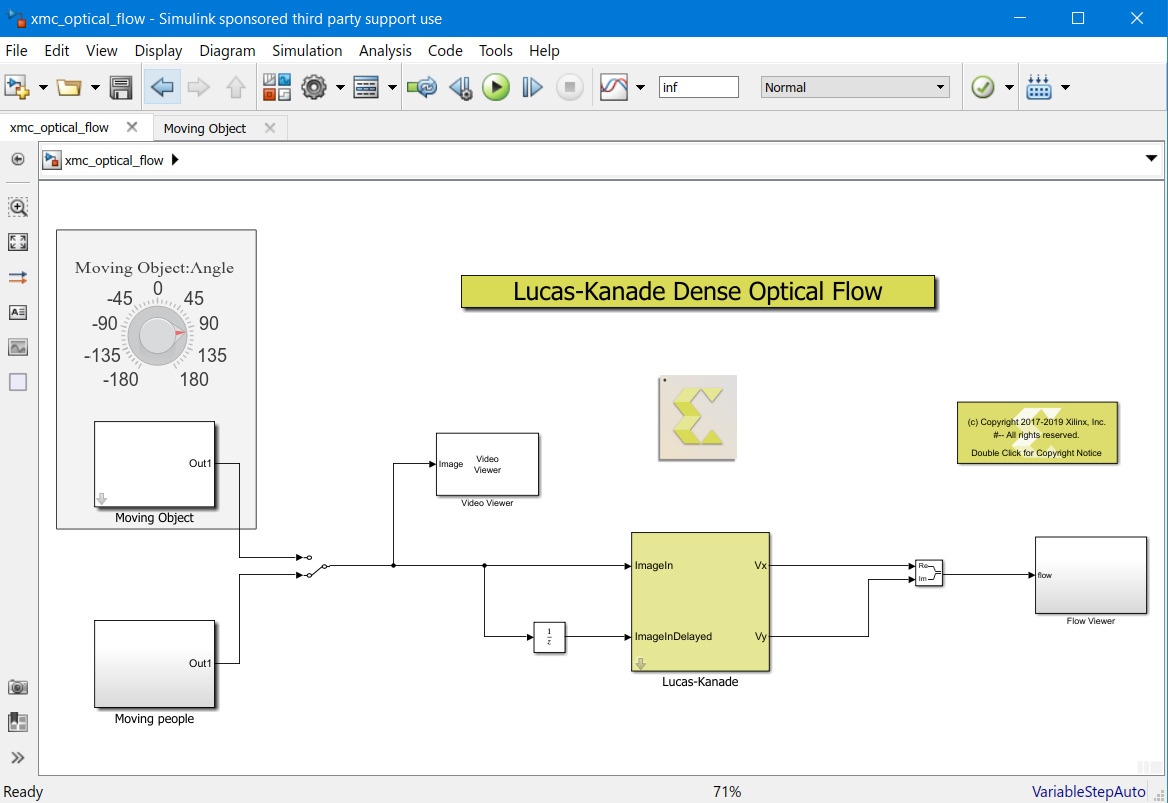
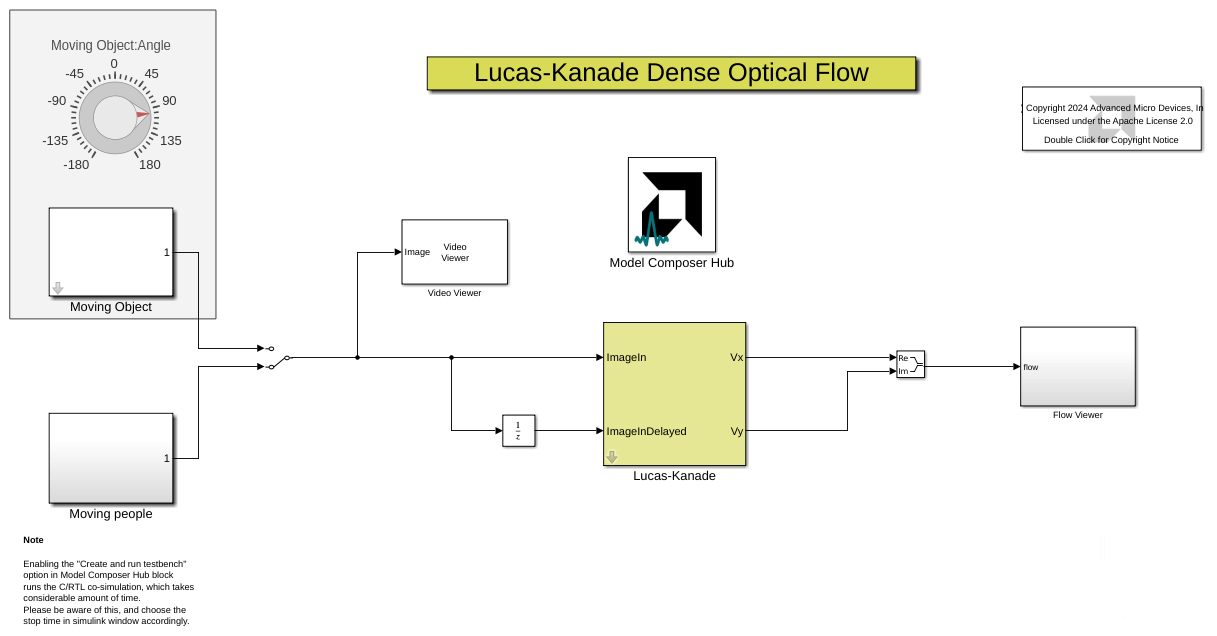
Update HLS Lab 3 to 2024.1

diff --git a/Tutorials/HLS_Library/Lab3_HLS/README.html b/Tutorials/HLS_Library/Lab3_HLS/README.html
@@ -5,7 +5,7 @@
 <meta name="viewport" content="width=device-width, initial-scale=1">
 </head>
 <body>
-<h1 id="lab-3-debugging-imported-cc-code-using-gdb-debugger">Lab 3: Debugging Imported C/C++-Code Using GDB Debugger</h1>
+<h1 id="lab-3-debugging-imported-cc-code-using-gdb-debugger">Lab 3: Debugging Imported C/C++ Code Using GDB Debugger</h1>
 <html>    
 <script>
 function myFunction() {
@@ -24,12 +24,10 @@ document.location=commandURI
 <button type="button" style="background-color:#d0d028; font-size: 20px;" onclick="myFunction()">Open Lab Directory</button>  
               
 </html>
-<p>Model Composer provides the ability to debug <code>C/C++</code> code that has been <br />
-imported as a block using the <code>xmcImportFunction</code> command, <br />
-while simulating the entire design in Simulink® .</p>
+<p>Model Composer provides the ability to debug <code>C/C++</code> code that has been imported as a block using the <code>xmcImportFunction</code> command, while simulating the entire design in Simulink®.</p>
 <p>The debug flow in Vitis Model Composer is as follows:</p>
 <ol>
-<li>Specify the debug tool using the xmcImportFunctionSettings command.</li>
+<li>Specify the debug tool using the <code>xmcImportFunctionSettings</code> command.</li>
 <li>Launch the debugging tool.</li>
 <li>Add a breakpoint in the imported function.</li>
 <li>Attach to the MATLAB® process.</li>
@@ -46,28 +44,29 @@ while simulating the entire design in Simulink® .</p>
 <ol>
 <li>Type the following at the MATLAB command prompt:</li>
 </ol>
-<pre><code>xmcOpenExamples();
+<pre><code>xmcOpenExamples;
 </code></pre>
-<ol start="2">
-<li><p>Press <strong>Enter</strong>. A window opens to specify the folder location to download the examples from GitHub.<br />
-<br><br><img src="Images/Step1/Step2.png"></p></li>
-<li><p>Click <strong>Open</strong> after choosing the location. Once the download completes, the HTML page opens.</p></li>
-<li><p>Click <strong>HLS Examples</strong> under heading Table of Contents. This redirects you to the list of HLS Examples as shown. </p></li>
-<li><p>Click the <strong>Optical Flow</strong>. A description of the example displays.<br />
-<br><br><img src="Images/Step1/Step5.png"></p></li>
-<li><p>Click Click <strong>Open Design</strong> at the top left corner. This opens the example design.<br />
-<br><br><img src="Images/Step1/Step7.png"></p></li>
-<li><p>Right-click on the <strong>Lucas-Kanade</strong> subsystem and select <strong>Mask > Look Under Mask</strong> to observe the calculating-roots block.<br />
-<br><br><img src="Images/Step1/Step9-1.png"></p></li>
+<ol start="4">
+<li><p>Under <strong>Examples</strong>, click <strong>HLS</strong> under heading Table of Contents. </p></li>
+<li><p>Click the <strong>Optical Flow</strong>. A description of the example displays.</p></li>
 </ol>
+<p><img src="Images/Step1/Step5.png" alt="" /></p>
+<ol start="6">
+<li>Click Click <strong>Open Design</strong> at the top left corner. This opens the example design.</li>
+</ol>
+<p><img src="Images/Step1/Step7.png" alt="" /></p>
+<ol start="7">
+<li>Right-click on the <strong>Lucas-Kanade</strong> subsystem and select <strong>Mask > Look Under Mask</strong> to observe the calculating-roots block.</li>
+</ol>
+<p><img src="Images/Step1/Step9-1.png" alt="" /></p>
 <blockquote>
 <p> <strong>Note:</strong> This block has been generated using the <code>xmcImportFunction</code> feature. Its function declaration can be seen by double-clicking on the block.</p>
 </blockquote>
-<ul><br><br><img src="Images/Step1/Step9-2.png"></ul>
+<p><img src="Images/Step1/Step9-2.png" alt="" /></p>
 <ol start="8">
-<li>To view the function definition of <code>calculating_roots</code>, navigate to the current folder in the MATLAB window and double-click on <samp> calculating_roots.h </samp>.<br />
-<br><br><img src="Images/Step1/Step10.png"></li>
+<li>To view the function definition of <code>calculating_roots</code>, navigate to the current folder in the MATLAB window and double-click on <code>calculating_roots.h</code>.</li>
 </ol>
+<p><img src="Images/Step1/Step10.png" alt="" /></p>
 <p>The setup is now ready for you to debug your <code>C/C++</code> code. In the next step, you will see how to debug the code using GDB tool debugger.</p>
 <h2 id="step-2-debugging-cc-code-using-gdb-debugger">Step 2: Debugging C/C++ Code Using GDB Debugger</h2>
 <ol>
@@ -79,41 +78,51 @@ while simulating the entire design in Simulink® .</p>
 <p>⭐ <strong>Tip</strong>: You can restore the release build environment, using the <code>release</code> value of the <code>build</code> option: <code>xmcImportFunctionSettings('build','release')</code>.</p>
 </blockquote>
 <ol start="2">
-<li><p>Press Enter to see the applied settings in command window, as shown in the following figure.<br />
-<br><br><img src="Images/Step2/Step2.png"><br />
-<br><br> Note the gdb link that you will use to invoke the debugger tool, and the MATLAB process ID that you will use to attach the process to the debugger.</p></li>
-<li><p>Click on the <strong>gdb</strong> link, to invoke the terminal and launch gdb.<br />
-<br><br><img src="Images/Step2/Step3.png"></p></li>
-<li><p>At the terminal, use the following command to specify the breakpoint in the <samp> calculating_roots.h </samp> file where you want the code to stop executing. Press <strong>Enter</strong> to run the command.</p></li>
+<li>Press Enter to see the applied settings in command window, as shown in the following figure.</li>
+</ol>
+<p><img src="Images/Step2/Step2.png" alt="" /></p>
+<p>Note the gdb link that you will use to invoke the debugger tool, and the MATLAB process ID that you will use to attach the process to the debugger.</p>
+<ol start="3">
+<li>Click on the <strong>gdb</strong> link, to invoke the terminal and launch gdb.</li>
+</ol>
+<p><img src="Images/Step2/Step3.png" alt="" /></p>
+<ol start="4">
+<li>At the terminal, use the following command to specify the breakpoint in the <code>calculating_roots.h</code> file where you want the code to stop executing. Press <strong>Enter</strong> to run the command.</li>
 </ol>
 <pre><code>(gdb) break calculating_roots.h:53 
 </code></pre>
 <blockquote>
 <p> <strong>Note</strong>: The “53” in the above command, tells the GDB debugger to stop the simulation at line 53 of your program.</p>
 </blockquote>
-<ul><br><br><img src="Images/Step2/Step4.png"></ul>
+<p><img src="Images/Step2/Step4.png" alt="" /></p>
 <ol start="5">
-<li><p>Once the command runs, you can see a pending breakpoint in the terminal. This is shown in the following figure.<br />
-<br><br><img src="Images/Step2/Step5.png"><br />
-<br><br>If you see any questions from GDB, answer “yes” and press Enter.</p></li>
-<li><p>To attach the MATLAB process to the GDB debugger, type the following:</p></li>
+<li>Once the command runs, you can see a pending breakpoint in the terminal. This is shown in the following figure.</li>
+</ol>
+<p><img src="Images/Step2/Step5.png" alt="" /></p>
+<p>If you see any questions from GDB, answer “yes” and press Enter.</p>
+<ol start="6">
+<li>To attach the MATLAB process to the GDB debugger, type the following:</li>
 </ol>
 <pre><code>(gdb) attach &lt;process_ID&gt; 
 </code></pre>
-<ul> Enter the <process ID you saw in step 2. For example “15972”. As soon as the MATLAB process is attached, the MATLAB application gets frozen and becomes unresponsive. 
-<br><br><img src="Images/Step2/Step6.png"> </ul>
+<p>Enter the &lt;process ID you saw in step 2. For example “15972”. As soon as the MATLAB process is attached, the MATLAB application gets frozen and becomes unresponsive. </p>
+<p><img src="Images/Step2/Step6.png" alt="" /></p>
 <blockquote>
 <p> <strong>Note</strong> : During the debug process, if prompted to press 'c' to continue, type 'c' and hit Enter.</p>
 </blockquote>
 <ol start="7">
-<li><p>Type <code>cont</code> in the terminal.<br />
-<br><br><img src="Images/Step2/Step7.png"></p></li>
-<li><p>Now go to the Simulink® model and run the simulation by clicking the <strong>Run</strong> button.<br />
-<br><br><img src="Images/Step2/Step8.png"></p></li>
-<li><p>The model takes some time to initialize. As the simulation starts, you see the simulation come to the breakpoint at line 53 in the terminal window.<br />
-<br><br><img src="Images/Step2/Step9.png"><br />
-<br><br>Now, type the command list to view the lines of code around line 53.</p></li>
+<li>Type <code>cont</code> in the terminal.</li>
 </ol>
+<p><img src="Images/Step2/Step7.png" alt="" /></p>
+<ol start="8">
+<li>Now go to the Simulink® model and run the simulation by clicking the <strong>Run</strong> button.</li>
+</ol>
+<p><img src="Images/Step2/Step8.png" alt="" /></p>
+<ol start="9">
+<li>The model takes some time to initialize. As the simulation starts, you see the simulation come to the breakpoint at line 53 in the terminal window.</li>
+</ol>
+<p><img src="Images/Step2/Step9.png" alt="" /></p>
+<p>Now, type the command list to view the lines of code around line 53.</p>
 <pre><code>(gdb) list
 </code></pre>
 <ol start="10">
@@ -143,11 +152,11 @@ $1 = 421
 <h3 id="conclusion">Conclusion</h3>
 <p>In this lab, you learned:</p>
 <ul>
-<li>How to use a third party debugger (GDB debugger) and control the debug mode using xmcImportFunctionSettings.</li>
+<li>How to use a third party debugger (GDB debugger) and control the debug mode using <code>xmcImportFunctionSettings</code>.</li>
 <li>How to debug source code associated with your custom blocks using the GDB debugger, while leveraging the stimulus vectors from Simulink.</li>
 </ul>
 <hr />
-<p>Copyright 2022 Xilinx</p>
+<p>Copyright 2024 Advanced Micro Devices, Inc.</p>
 <p>Licensed under the Apache License, Version 2.0 (the "License");<br />
 you may not use this file except in compliance with the License.<br />
 You may obtain a copy of the License at</p>

diff --git a/Tutorials/HLS_Library/Lab3_HLS/README.md b/Tutorials/HLS_Library/Lab3_HLS/README.md
@@ -1,11 +1,10 @@
-# Lab 3: Debugging Imported C/C++-Code Using GDB Debugger
+# Lab 3: Debugging Imported C/C++ Code Using GDB Debugger
 
-Model Composer provides the ability to debug `C/C++` code that has been 
-imported as a block using the `xmcImportFunction` command, 
-while simulating the entire design in Simulink® .
+Model Composer provides the ability to debug `C/C++` code that has been imported as a block using the `xmcImportFunction` command, while simulating the entire design in Simulink®.
 
 The debug flow in Vitis Model Composer is as follows:
-1. Specify the debug tool using the xmcImportFunctionSettings command.
+
+1. Specify the debug tool using the `xmcImportFunctionSettings` command.
 2. Launch the debugging tool.
 3. Add a breakpoint in the imported function.
 4. Attach to the MATLAB® process.
@@ -22,85 +21,102 @@ For more details and information about how to create custom blocks, refer to the
 
 1. Type the following at the MATLAB command prompt:
 ``` 
-xmcOpenExamples();
+xmcOpenExamples;
 ```
 
-2. Press **Enter**. A window opens to specify the folder location to download the examples from GitHub.
-<br><br><img src="Images/Step1/Step2.png">
-
-3. Click **Open** after choosing the location. Once the download completes, the HTML page opens.
-
-4. Click **HLS Examples** under heading Table of Contents. This redirects you to the list of HLS Examples as shown. 
+4. Under **Examples**, click **HLS** under heading Table of Contents. 
 
 5. Click the **Optical Flow**. A description of the example displays.
-<br><br><img src="Images/Step1/Step5.png">
+
+![](Images/Step1/Step5.png)
 
 6. Click Click **Open Design** at the top left corner. This opens the example design.
-<br><br><img src="Images/Step1/Step7.png">
+
+![](Images/Step1/Step7.png)
 
 7. Right-click on the **Lucas-Kanade** subsystem and select **Mask > Look Under Mask** to observe the calculating-roots block.
-<br><br><img src="Images/Step1/Step9-1.png">
+
+![](Images/Step1/Step9-1.png)
 
 > 📝 **Note:** This block has been generated using the `xmcImportFunction` feature. Its function declaration can be seen by double-clicking on the block.
 
-<ul><br><br><img src="Images/Step1/Step9-2.png"></ul>
+![](Images/Step1/Step9-2.png)
 
-8. To view the function definition of `calculating_roots`, navigate to the current folder in the MATLAB window and double-click on <samp> calculating_roots.h </samp>.
-<br><br><img src="Images/Step1/Step10.png">
+8. To view the function definition of `calculating_roots`, navigate to the current folder in the MATLAB window and double-click on ` calculating_roots.h `.
+
+![](Images/Step1/Step10.png)
 
 The setup is now ready for you to debug your `C/C++` code. In the next step, you will see how to debug the code using GDB tool debugger.
 
 ## Step 2: Debugging C/C++ Code Using GDB Debugger
  
 1. Specify the debug tool using the `xmcImportFunctionSettings` command. At the MATLAB® command prompt, type the following command:
+
 ```
 >> xmcImportFunctionSettings('build', 'debug');
 ```
+
 > ⭐ **Tip**: You can restore the release build environment, using the `release` value of the `build` option: `xmcImportFunctionSettings('build','release')`.
 
 2. Press Enter to see the applied settings in command window, as shown in the following figure.
-<br><br><img src="Images/Step2/Step2.png">
-<br><br> Note the gdb link that you will use to invoke the debugger tool, and the MATLAB process ID that you will use to attach the process to the debugger.
+
+![](Images/Step2/Step2.png)
+
+Note the gdb link that you will use to invoke the debugger tool, and the MATLAB process ID that you will use to attach the process to the debugger.
 
 3. Click on the **gdb** link, to invoke the terminal and launch gdb.
-<br><br><img src="Images/Step2/Step3.png">
 
- 4. At the terminal, use the following command to specify the breakpoint in the <samp> calculating_roots.h </samp> file where you want the code to stop executing. Press **Enter** to run the command.
+![](Images/Step2/Step3.png)
+
+ 4. At the terminal, use the following command to specify the breakpoint in the ` calculating_roots.h ` file where you want the code to stop executing. Press **Enter** to run the command.
+
 ```
 (gdb) break calculating_roots.h:53 
 
 ```
+
 > 📝 **Note**: The “53” in the above command, tells the GDB debugger to stop the simulation at line 53 of your program.
 
-<ul><br><br><img src="Images/Step2/Step4.png"></ul>
+![](Images/Step2/Step4.png)
 
 5. Once the command runs, you can see a pending breakpoint in the terminal. This is shown in the following figure.
-<br><br><img src="Images/Step2/Step5.png">
-<br><br>If you see any questions from GDB, answer “yes” and press Enter.
+
+![](Images/Step2/Step5.png)
+
+If you see any questions from GDB, answer “yes” and press Enter.
 
 6. To attach the MATLAB process to the GDB debugger, type the following:
+
 ```
 (gdb) attach <process_ID> 
 ```
-<ul> Enter the <process ID you saw in step 2. For example “15972”. As soon as the MATLAB process is attached, the MATLAB application gets frozen and becomes unresponsive. 
-<br><br><img src="Images/Step2/Step6.png"> </ul>
+
+Enter the <process ID you saw in step 2. For example “15972”. As soon as the MATLAB process is attached, the MATLAB application gets frozen and becomes unresponsive. 
+
+![](Images/Step2/Step6.png)
  
 > 📝 **Note** : During the debug process, if prompted to press 'c' to continue, type 'c' and hit Enter.
 
 7. Type `cont` in the terminal.
-<br><br><img src="Images/Step2/Step7.png">
+
+![](Images/Step2/Step7.png)
 
 8. Now go to the Simulink® model and run the simulation by clicking the **Run** button.
-<br><br><img src="Images/Step2/Step8.png">
+
+![](Images/Step2/Step8.png)
 
 9. The model takes some time to initialize. As the simulation starts, you see the simulation come to the breakpoint at line 53 in the terminal window.
-<br><br><img src="Images/Step2/Step9.png">
-<br><br>Now, type the command list to view the lines of code around line 53.
+
+![](Images/Step2/Step9.png)
+
+Now, type the command list to view the lines of code around line 53.
+
 ```
 (gdb) list
 ```
 
 10. Now, type command step to continue the simulation one line to the next step.
+
 ```
 (gdb) step
 ```
@@ -113,6 +129,7 @@ The setup is now ready for you to debug your `C/C++` code. In the next step, you
 > * (gdb) watch \<variable>
 
 11. Type `print r` to view the values of variables at that simulation step. This gives the result as shown in the following figure.
+
 ```
 (gdb) print r
 $1 = 421
@@ -121,13 +138,14 @@ $1 = 421
 12. You can try using more gdb commands to debug and once you are done, type `quit` to exit GDB, and observe that the Simulink model continues to run.
 
 ### Conclusion
+
 In this lab, you learned:
- * How to use a third party debugger (GDB debugger) and control the debug mode using xmcImportFunctionSettings.
+
+ * How to use a third party debugger (GDB debugger) and control the debug mode using `xmcImportFunctionSettings`.
  * How to debug source code associated with your custom blocks using the GDB debugger, while leveraging the stimulus vectors from Simulink.
 
-
 --------------
-Copyright 2022 Xilinx
+Copyright 2024 Advanced Micro Devices, Inc.
 
 Licensed under the Apache License, Version 2.0 (the "License");
 you may not use this file except in compliance with the License.
